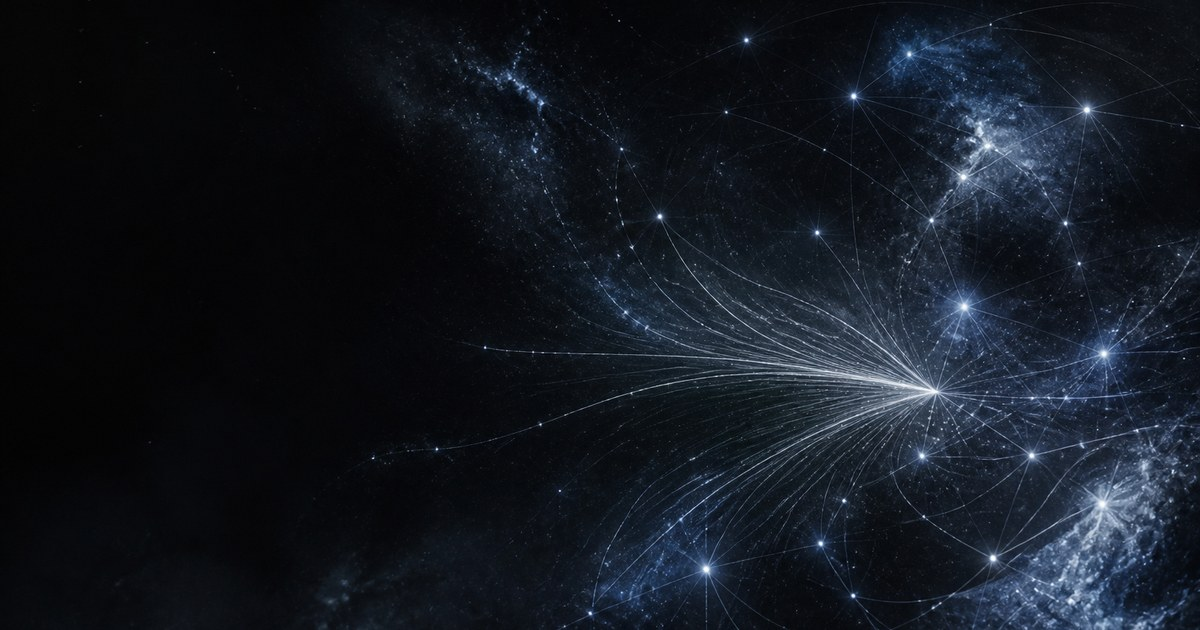
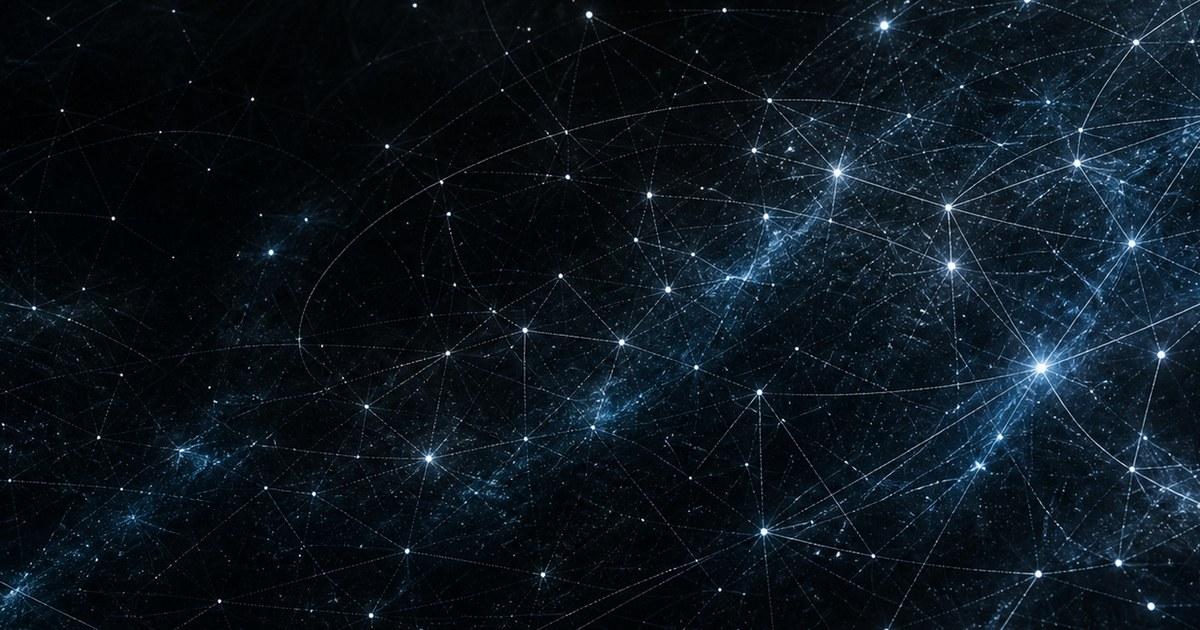
design: full-bleed hero photo sized to the hero plane
Use an ultrawide hero-signal-field.jpg as a cover <img> spanning the
entire hero (object-fit: cover), with a scrim overlay for copy contrast.

diff --git a/static/css/app.css b/static/css/app.css
@@ -6429,17 +6429,34 @@ body.body-auth {
 
 .hero-visual--cite,
 .hero-visual--field {
-  /* Signal-field backdrop (no baked logo/wordmark). Left third stays darker for copy. */
+  /* Full-bleed photo via .hero-visual__photo; gradients only for copy legibility. */
+  inset: 0;
+  width: 100%;
+  height: 100%;
   background:
-    linear-gradient(105deg, rgba(4, 6, 10, 0.88) 0%, rgba(4, 6, 10, 0.55) 38%, rgba(4, 6, 10, 0.28) 62%, rgba(4, 6, 10, 0.62) 100%),
-    radial-gradient(ellipse 55% 50% at 72% 46%, rgba(201, 211, 221, 0.08) 0%, transparent 62%),
-    url("../img/hero-signal-field.jpg") 68% 42% / cover no-repeat,
+    linear-gradient(105deg, rgba(4, 6, 10, 0.86) 0%, rgba(4, 6, 10, 0.48) 40%, rgba(4, 6, 10, 0.22) 68%, rgba(4, 6, 10, 0.55) 100%),
+    radial-gradient(ellipse 55% 50% at 70% 48%, rgba(201, 211, 221, 0.07) 0%, transparent 62%),
     linear-gradient(168deg, #04060A 0%, #070A10 48%, #0A0E14 100%);
+}
+
+.hero-visual__photo {
+  position: absolute;
+  inset: 0;
+  z-index: 0;
+  display: block;
+  width: 100%;
+  height: 100%;
+  max-width: none;
+  object-fit: cover;
+  object-position: center center;
+  pointer-events: none;
+  user-select: none;
 }
 
 .hero-visual__aurora {
   position: absolute;
   inset: -20% -10% auto;
+  z-index: 1;
   height: 75%;
   background:
     radial-gradient(ellipse 50% 45% at 65% 30%, rgba(201, 211, 221, 0.14) 0%, transparent 60%),
@@ -6452,6 +6469,7 @@ body.body-auth {
 .hero-visual__scan {
   position: absolute;
   inset: 0;
+  z-index: 1;
   pointer-events: none;
   background:
     conic-gradient(from 200deg at 72% 48%, transparent 0deg, rgba(201, 211, 221, 0.07) 28deg, transparent 70deg);
@@ -6473,28 +6491,25 @@ body.body-auth {
 .hero-visual__field {
   position: absolute;
   inset: 0;
+  z-index: 1;
   display: flex;
   align-items: center;
-  justify-content: center;
-  padding: 0;
+  justify-content: flex-end;
+  padding: 0 clamp(0.5rem, 3vw, 2.5rem) 0 0;
   pointer-events: none;
-  z-index: 0;
 }
 
-.hero-visual__field img,
-.hero-cite-svg {
-  /* Width + margin-left must stay <= container width or the centered
-     flex item overflows/clips past the right edge instead of sitting
-     right-of-center as intended (was 96vw + 12vw = 108vw). */
-  width: min(80vw, 1000px);
+.hero-visual__field .hero-cite-svg {
+  /* Sit in the right half of the full-bleed hero; never exceed viewport width. */
+  width: min(52vw, 920px);
   height: auto;
-  max-height: min(92vh, 780px);
+  max-height: min(78vh, 640px);
   object-fit: contain;
-  opacity: 0.36;
+  opacity: 0.34;
   filter: none;
   animation: cite-field-rise 1.1s var(--ease) forwards;
   display: block;
-  margin-left: 12vw;
+  margin: 0;
 }
 
 .hero-cite-svg__scan {
@@ -6528,17 +6543,18 @@ body.body-auth {
 }
 
 @media (max-width: 860px) {
+  .hero-visual__photo {
+    object-position: 62% center;
+  }
   .hero-visual__field {
     justify-content: center;
     align-items: flex-start;
-    padding-top: 4.5rem;
+    padding: 4.5rem 0.75rem 0;
   }
-  .hero-visual__field img,
-  .hero-cite-svg {
+  .hero-visual__field .hero-cite-svg {
     width: min(96vw, 480px);
     max-height: 46vh;
-    opacity: 0.72;
-    margin-left: 0;
+    opacity: 0.55;
   }
   .hero-visual__core {
     right: 50%;
@@ -6953,7 +6969,7 @@ body.body-auth {
   .hero-visual__signal,
   .hero-visual__scan,
   .hero-visual__core,
-  .hero-visual__field img,
+  .hero-visual__field .hero-cite-svg,
   .hero-cite-svg,
   .hero-cite-svg__scan,
   .hero-headline--rise,
@@ -7061,10 +7077,9 @@ body.body-auth {
   margin: 0 0 1.75rem;
 }
 
-/* NOTE: .hero-visual--cite's real background (with the hero-signal-field.jpg
-   nebula backdrop) is defined once, earlier in this file — do not add
-   another `background:` rule for these selectors here, it silently wins
-   the cascade (same specificity, later source order) and drops the photo. */
+/* NOTE: full-bleed hero photo is .hero-visual__photo (object-fit: cover).
+   Gradient overlays live on .hero-visual--cite — do not redeclare
+   `background:` later for those selectors or you drop the scrim stack. */
 
 .hero-visual__core img {
   filter: drop-shadow(0 12px 40px rgba(0, 0, 0, 0.55));

diff --git a/templates/landing.html b/templates/landing.html
@@ -13,6 +13,15 @@
 {% block content %}
 <section class="hero hero--v2 hero--signal" aria-labelledby="hero-brand">
   <div class="hero-visual hero-visual--cite" aria-hidden="true">
+    <img
+      class="hero-visual__photo"
+      src="{{ url_for('static', filename='img/hero-signal-field.jpg') }}"
+      alt=""
+      width="2560"
+      height="1080"
+      decoding="async"
+      fetchpriority="high"
+    />
     <div class="hero-visual__aurora"></div>
     <div class="hero-visual__scan"></div>
     <div class="hero-visual__field">

diff --git a/BRAND.md b/BRAND.md
@@ -23,7 +23,7 @@ Marketing pages and admin (no `dash-plan--*` class) fall back to the global chro
 - `static/img/logo-mark.svg` — compact vector mark for the sidebar (viewBox 64×64, simplified geometry for ≤28px legibility).
 - `static/favicon.svg` — same compact-mark design.
 - `static/img/logo.png` / `logo-mark.png` / `apple-touch-icon.png` / `favicon-32.png` / `favicon-16.png` — raster renders of the SVGs above (`cairosvg`), used only where raster is required: `<link rel="apple-touch-icon">`, JSON-LD `logo`/`image`, `<link rel="icon" sizes="any">` fallback.
-- `static/img/hero-signal-field.jpg` — landing hero atmosphere only: abstract chrome signal-field / constellation (void + steel light filaments). **No logo, monogram, or wordmark baked in** — the mark stays in the HTML lockup.
+- `static/img/hero-signal-field.jpg` — landing hero full-bleed atmosphere (ultrawide ~21:9, `object-fit: cover` via `.hero-visual__photo`). Abstract chrome signal-field; **no logo/monogram/wordmark** — mark stays in the HTML lockup.
 - `static/img/og-share.jpg` — Open Graph / social share (1200×630), cropped from the hero art.
 - Jinja lockup: `templates/partials/holo_brand.html` (legacy name, still current).
 
